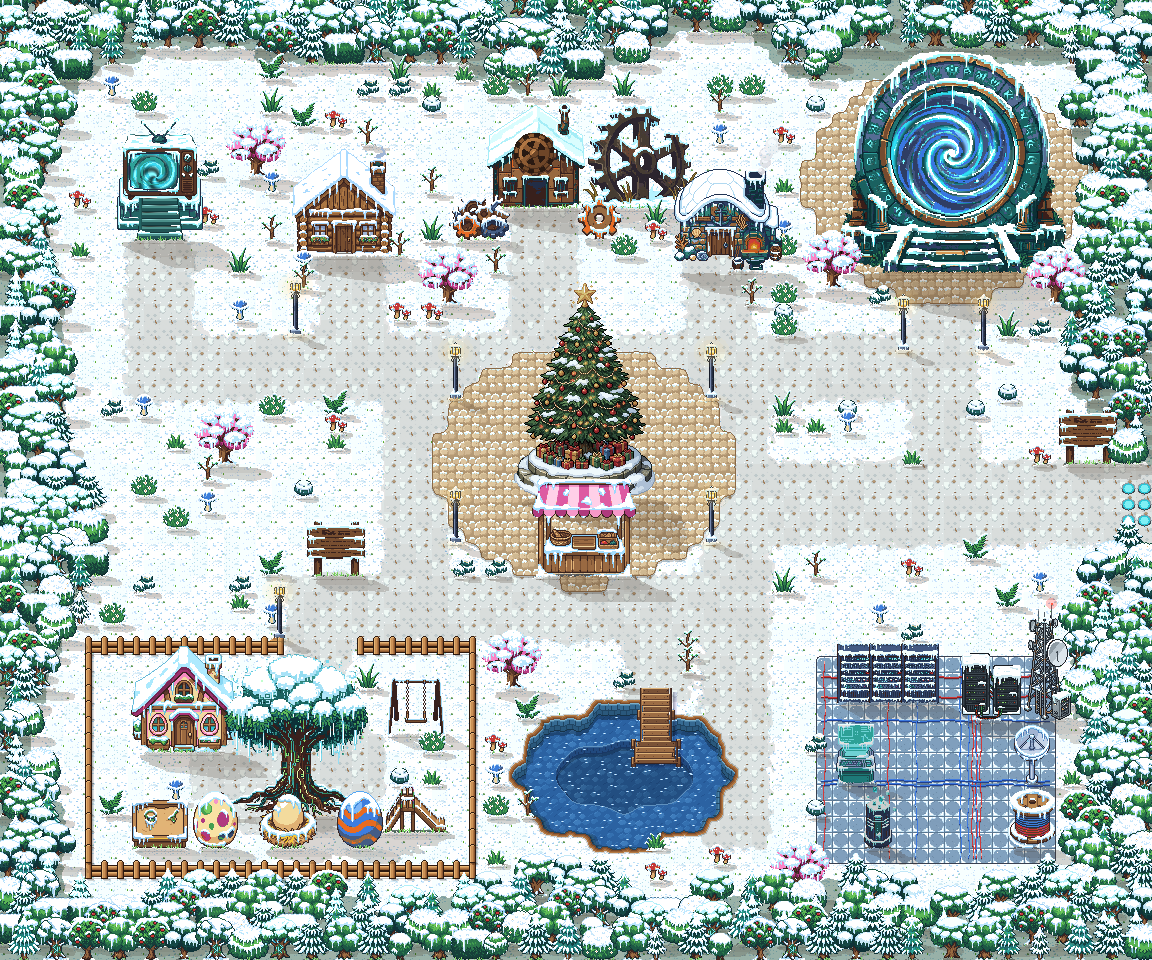
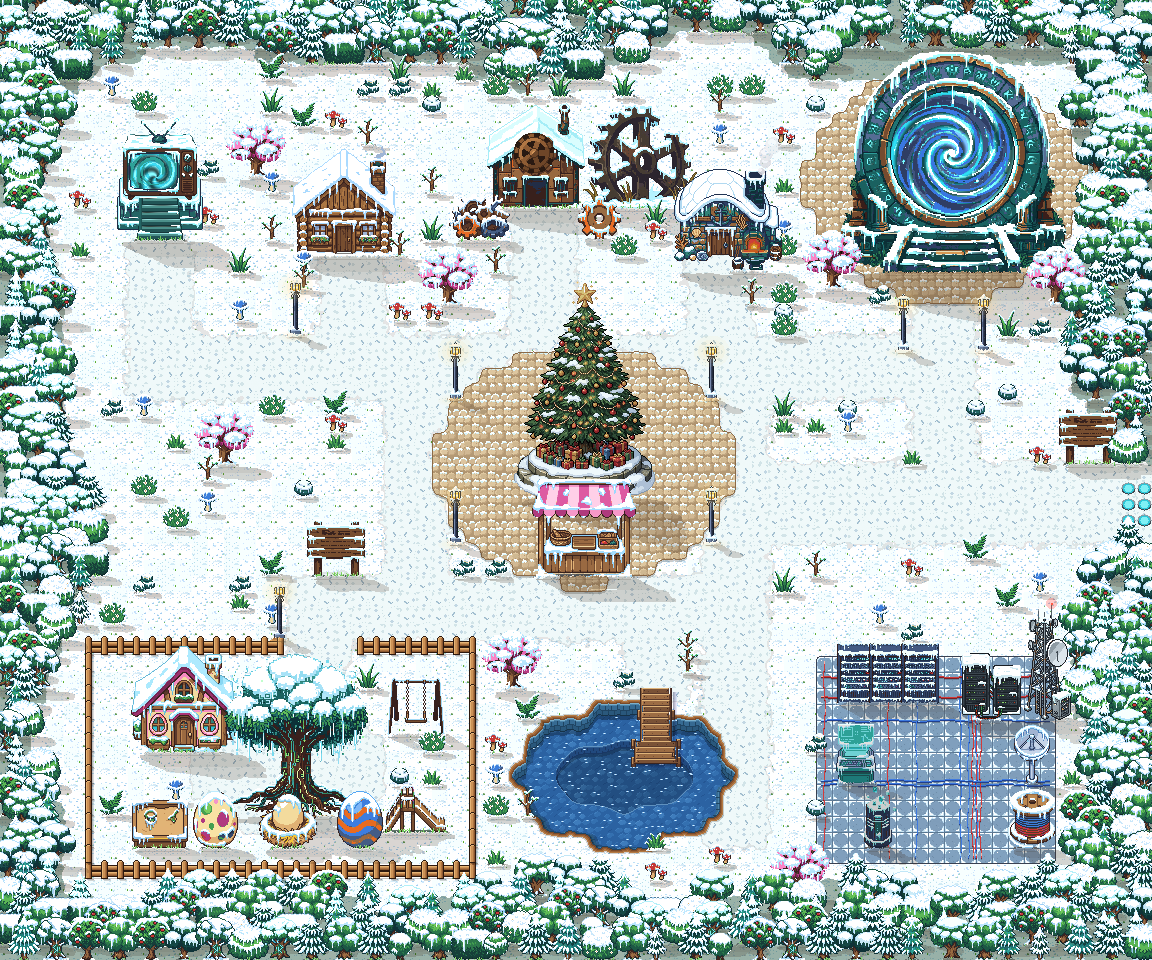
Karte 06 Xmas: Wege neu (ruhigere PixelLab-Schneepfad-Kachel, gedreht/gespiegelt gegen Rastermuster)
Claude-Session: https://claude.ai/code/session_01SaoYHKhnro4LFcPJqjaPsq

Changed region(s): [[0.0938, 0.2188, 1.0, 0.9062], [0.1562, 0.75, 0.3438, 0.8438]]

diff --git a/tools/karte06_xmas.py b/tools/karte06_xmas.py
@@ -130,7 +130,12 @@ def bauen():
         name = ersatz.get(os.path.normpath(pfad))
         if name is None:
             return orig(pfad, n, umfaerben)
-        return [np.array(Image.open(os.path.join(XK, '%s_%d.png' % (name, v))).convert('RGB')) for v in AUSWAHL[name]]
+        datei = 'weg' if name == 'sand' else name                       # Nutzer: Wege ruhiger (zweite PixelLab-Runde 'weg')
+        ks = [np.array(Image.open(os.path.join(XK, '%s_%d.png' % (datei, v))).convert('RGB')) for v in AUSWAHL[name]]
+        if name == 'sand':                                             # gedreht/gespiegelt: kein sichtbares Raster
+            k = ks[0]
+            ks = [k, np.rot90(k, 1).copy(), np.rot90(k, 2).copy(), k[:, ::-1].copy(), np.rot90(k, 3).copy()]
+        return ks
     k6.kacheln = kacheln_xmas
     # Objekte: Xmas-Sprites, Brunnen -> Weihnachtsbaum
     p = json.load(open(os.path.join(OBJ_ALT, 'platzierung.json')))
@@ -153,7 +158,7 @@ def bauen():
 
 
 BAUM_NR = 0
-AUSWAHL = {'gras': [0, 1, 3, 4], 'sand': [0, 1], 'kies': [0, 3], 'platz': [0, 1, 2]}   # zueinander passende Varianten
+AUSWAHL = {'gras': [0, 1, 3, 4], 'sand': [2], 'kies': [0, 3], 'platz': [0, 1, 2]}   # zueinander passende Varianten
 
 if __name__ == '__main__':
     {'kacheln': kacheln, 'objekte': objekte, 'baum': baum, 'bauen': bauen}[sys.argv[1]]()
